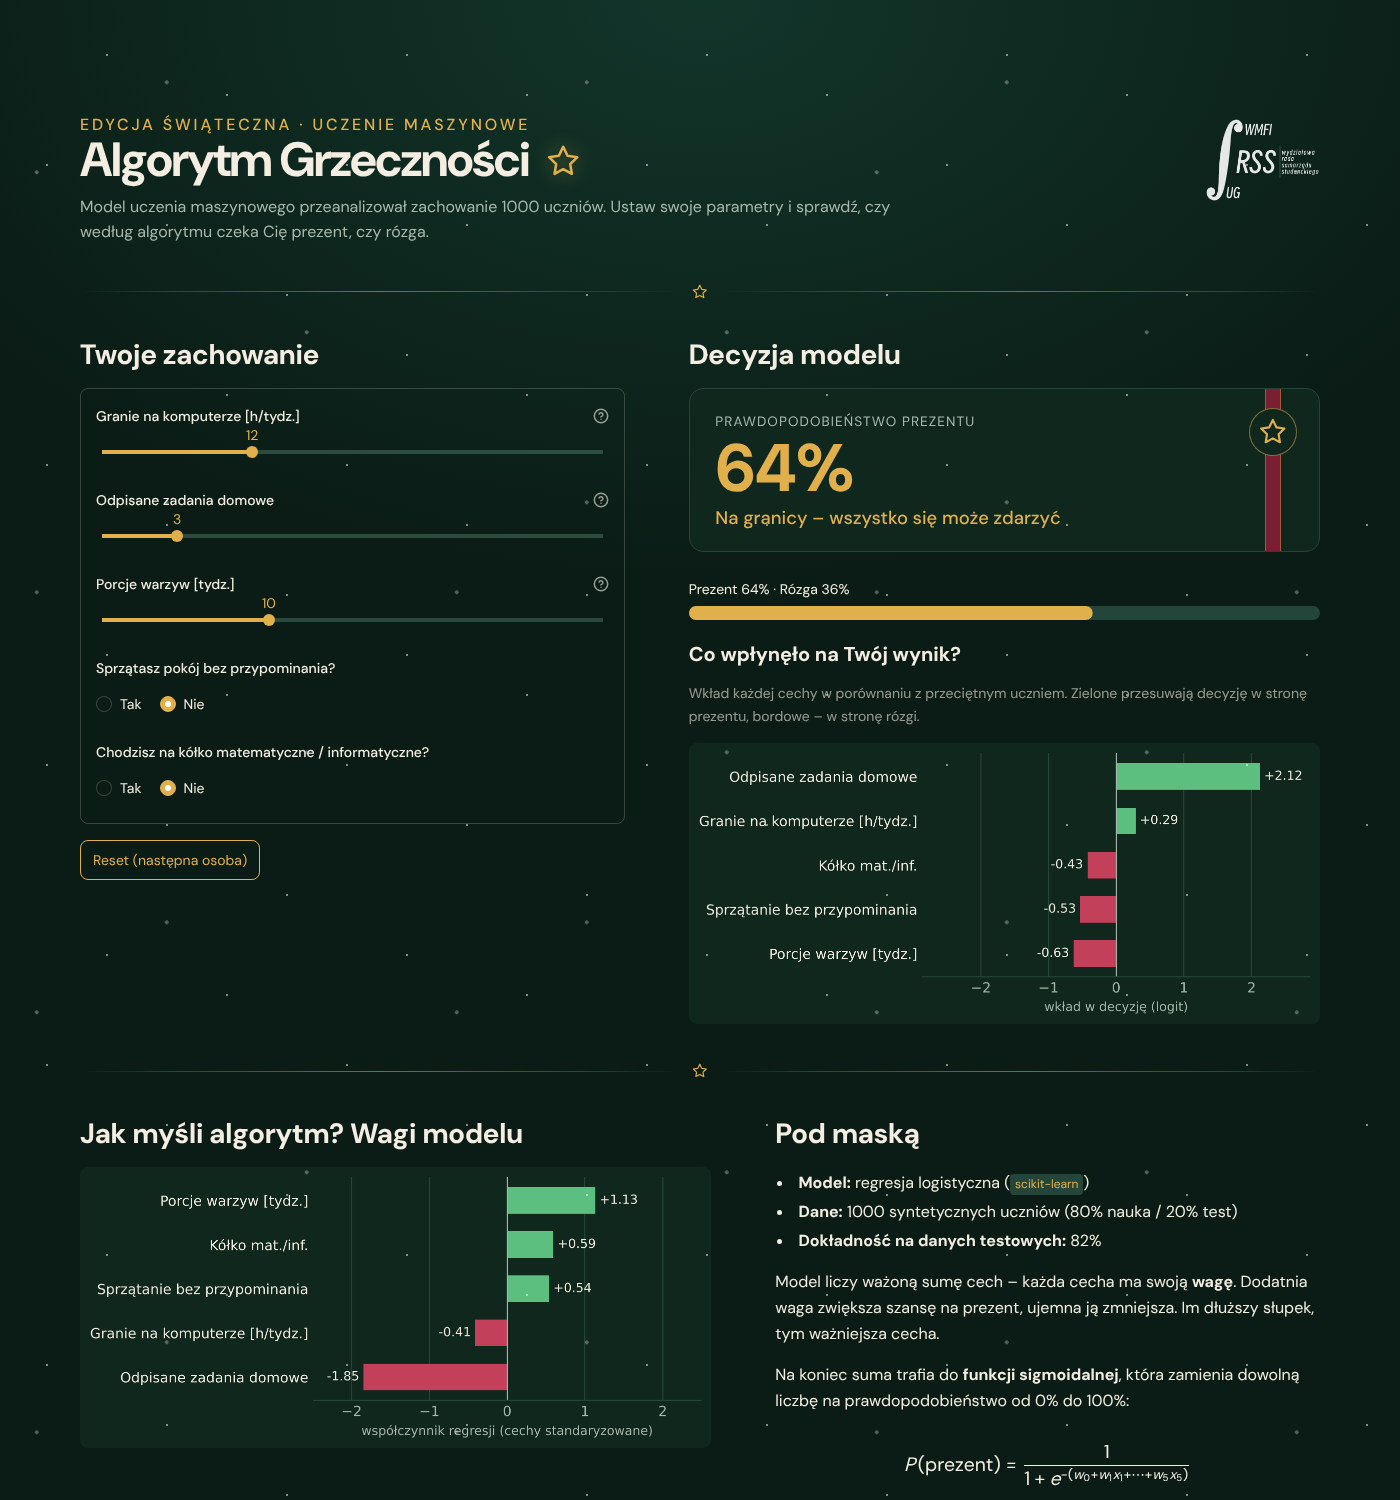
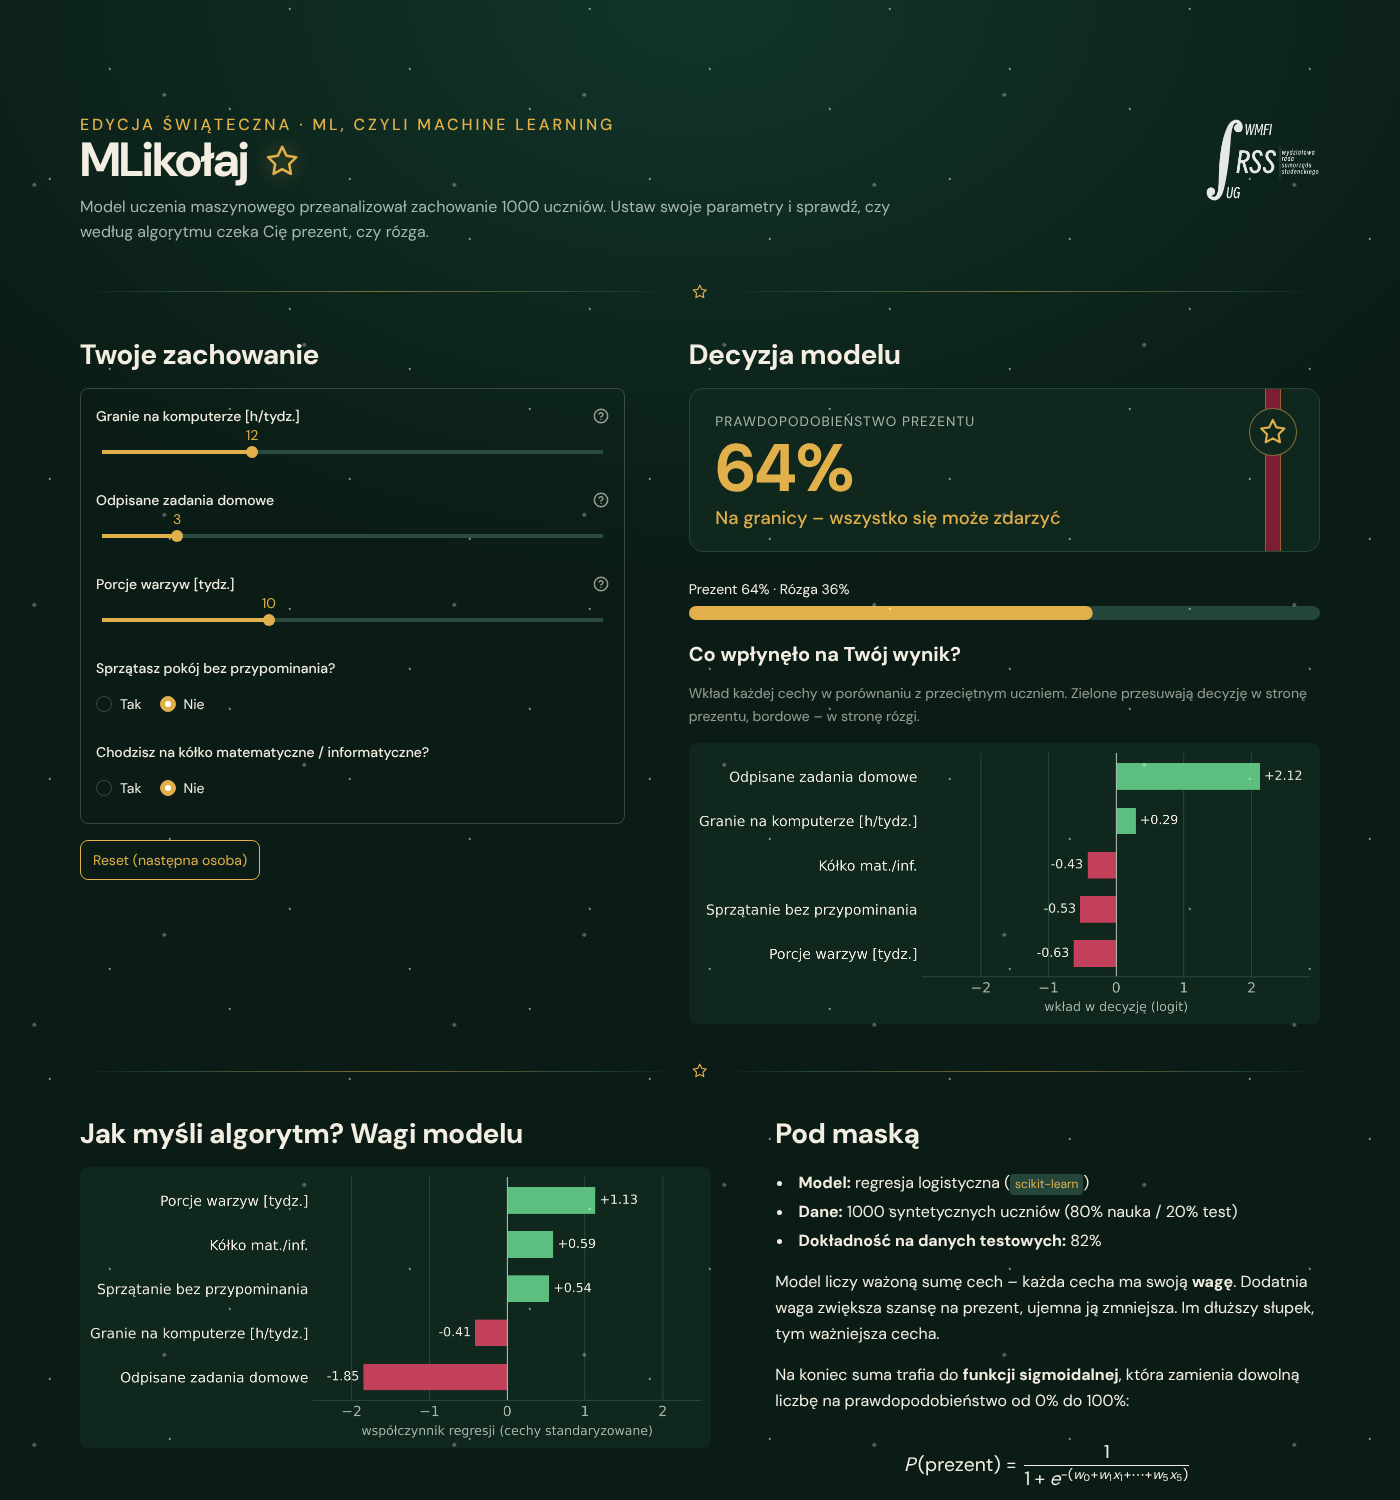
Zmień nazwę aplikacji na MLikołaj
ML = machine learning (uczenie maszynowe). Nowa nazwa w tytule strony,
nagłówku (nadtytuł rozwija skrót ML), docstringu i README; odświeżony zrzut ekranu.

Claude-Session: https://claude.ai/code/session_015tzpa3RmBQ5pVK3MQq3Zg8

Changed region(s): [[0.0614, 0.0613, 0.43, 0.1227]]

diff --git a/app.py b/app.py
@@ -1,6 +1,8 @@
 """
-Algorytm Grzeczności
-====================
+MLikołaj
+========
+
+ML = machine learning (uczenie maszynowe) + Mikołaj.
 
 Interaktywna aplikacja edukacyjna (Streamlit + scikit-learn) na stoisko wydziałowe.
 
@@ -39,7 +41,7 @@ from sklearn.preprocessing import StandardScaler
 
 # Konfiguracja strony musi być pierwszym wywołaniem Streamlita w skrypcie.
 st.set_page_config(
-    page_title="Algorytm Grzeczności",
+    page_title="MLikołaj",
     page_icon="🎄",
     layout="wide",
     initial_sidebar_state="collapsed",
@@ -591,8 +593,8 @@ def main() -> None:
     # --- Nagłówek -----------------------------------------------------------
     st.markdown(
         '<div class="naglowek"><div>'
-        '<p class="nadtytul">Edycja świąteczna · uczenie maszynowe</p>'
-        f'<div class="tytul">Algorytm Grzeczności {IKONA_GWIAZDA}</div>'
+        '<p class="nadtytul">Edycja świąteczna · ML, czyli machine learning</p>'
+        f'<div class="tytul">MLikołaj {IKONA_GWIAZDA}</div>'
         '<p class="podtytul">Model uczenia maszynowego przeanalizował zachowanie '
         f"{LICZBA_REKORDOW} uczniów. Ustaw swoje parametry i sprawdź, czy według "
         "algorytmu czeka Cię prezent, czy rózga.</p>"

diff --git a/README.md b/README.md
@@ -1,4 +1,7 @@
-# Algorytm Grzeczności
+# MLikołaj
+
+**ML** to skrót od *machine learning*, czyli uczenie maszynowe. MLikołaj to Mikołaj,
+który o prezentach decyduje za pomocą uczenia maszynowego.
 
 Interaktywna aplikacja pokazująca uczniom szkół podstawowych i średnich, jak działa
 uczenie maszynowe. Uczeń ustawia suwakami swoje „zachowanie”, a model na bieżąco
